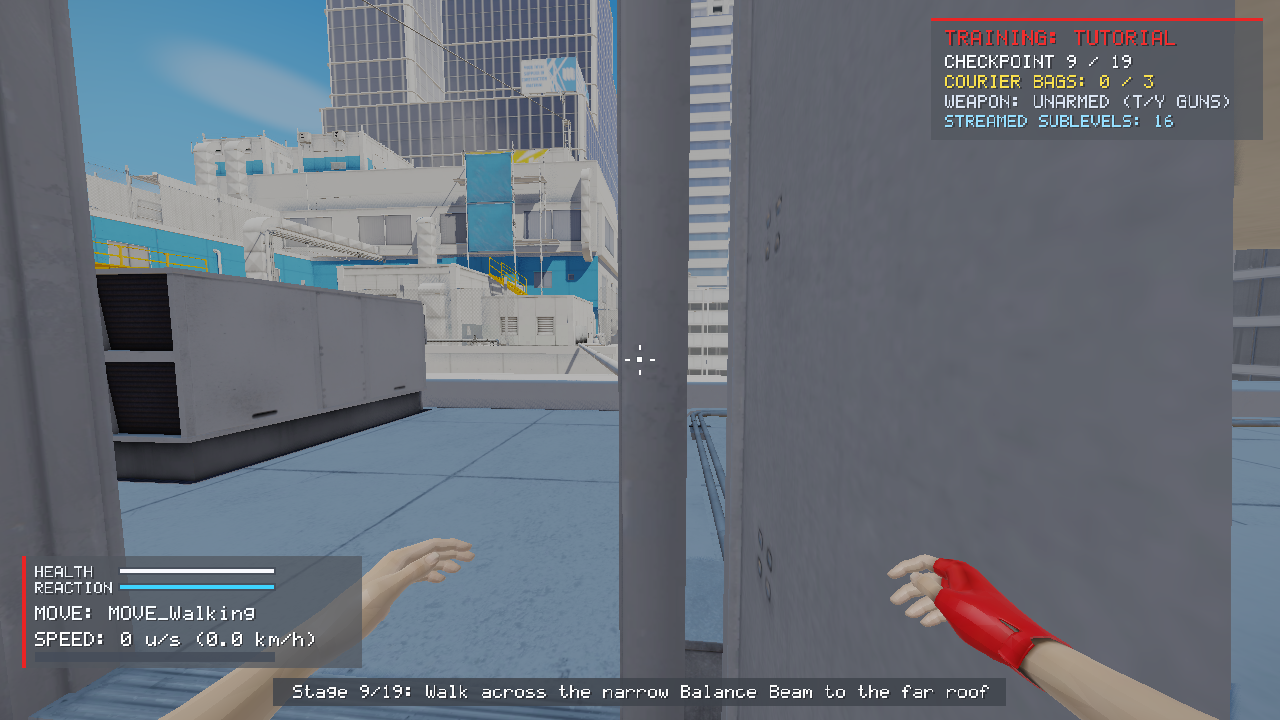
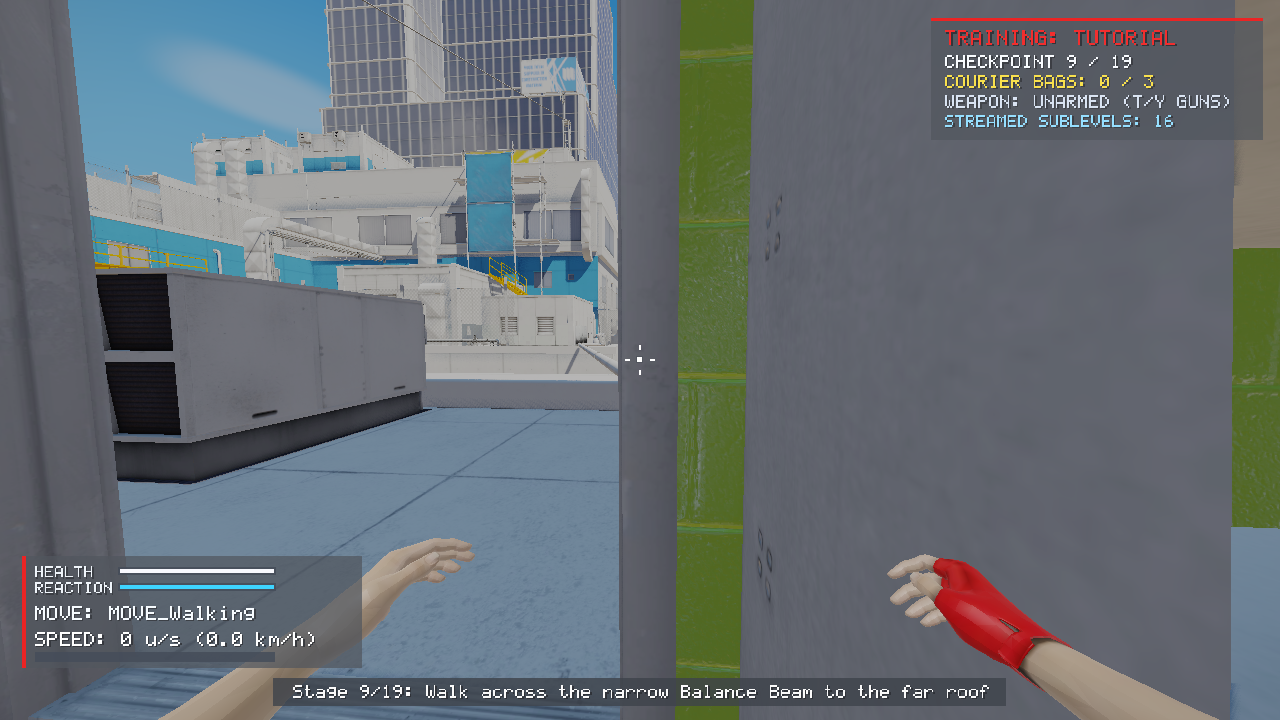
Extract and render UE3 UModel BSP interior walls, ceilings, and floors

Changed region(s): [[0.5312, 0.0, 0.5938, 0.9472], [0.9375, 0.3361, 1.0, 0.7333], [0.5, 0.9778, 0.5938, 1.0]]

diff --git a/src/assets/upk_loader.cpp b/src/assets/upk_loader.cpp
@@ -2428,6 +2428,204 @@ void UPKPackage::extract_bsp_collision(std::vector<Vec3>& out_triangles) const {
     }
 }
 
+void UPKPackage::extract_bsp_render_geometry(std::vector<std::pair<std::string, std::vector<Vertex>>>& out_bins,
+                                             AABB& inout_bounds) const {
+    constexpr uint32_t PF_Invisible = 0x00000001u;
+    constexpr uint32_t PF_TwoSided  = 0x00000100u;
+    constexpr uint32_t PF_Portal    = 0x04000000u;
+
+    std::unordered_map<std::string, size_t> bin_index;
+    for (size_t i = 0; i < out_bins.size(); ++i) {
+        bin_index.emplace(to_lower(out_bins[i].first), i);
+    }
+    auto get_bin = [&](const std::string& mat_path) -> std::vector<Vertex>& {
+        const std::string key = to_lower(mat_path);
+        auto it = bin_index.find(key);
+        if (it != bin_index.end()) return out_bins[it->second].second;
+        const size_t idx = out_bins.size();
+        out_bins.emplace_back(mat_path, std::vector<Vertex>{});
+        bin_index.emplace(key, idx);
+        return out_bins.back().second;
+    };
+
+    auto unpack_normal = [](const uint8_t* b) {
+        return Vec3(static_cast<float>(b[0]) / 127.5f - 1.0f,
+                    static_cast<float>(b[1]) / 127.5f - 1.0f,
+                    static_cast<float>(b[2]) / 127.5f - 1.0f);
+    };
+
+    for (size_t i = 0; i < exports_.size(); ++i) {
+        const auto& exp = exports_[i];
+        if (get_export_class(exp) != "Model") continue;
+        if (resolve_object_index(exp.outer_index).first != "PersistentLevel") continue;
+        UPropertyList props;
+        size_t off = parse_export_properties(*this, static_cast<int32_t>(i) + 1, props);
+        const size_t end = std::min(data_.size(), static_cast<size_t>(exp.serial_offset) + static_cast<size_t>(exp.serial_size));
+        if (off == 0 || off + 28 > end) continue;
+        off += 28;  // Bounds
+
+        auto rd = [&](size_t o) {
+            int32_t v = 0;
+            std::memcpy(&v, data_.data() + o, 4);
+            return v;
+        };
+        struct Bulk {
+            size_t data = 0;
+            int32_t elem = 0;
+            int32_t count = 0;
+        };
+        auto bulk = [&](Bulk& b) -> bool {
+            if (off + 8 > end) return false;
+            b.elem = rd(off);
+            b.count = rd(off + 4);
+            if (b.elem <= 0 || b.elem > 256 || b.count < 0 ||
+                off + 8 + static_cast<size_t>(b.elem) * static_cast<size_t>(b.count) > end) {
+                return false;
+            }
+            b.data = off + 8;
+            off = b.data + static_cast<size_t>(b.elem) * static_cast<size_t>(b.count);
+            return true;
+        };
+        Bulk vectors, points, nodes, verts;
+        if (!bulk(vectors) || !bulk(points) || !bulk(nodes)) continue;
+        if (points.elem != 12 || nodes.elem != 64 || nodes.count == 0) continue;
+        if (off + 8 > end) continue;
+        const int32_t surf_count = rd(off + 4);  // TTransArray: Owner, then the TArray
+        constexpr size_t kSurfSize = 56;
+        const size_t surfs = off + 8;
+        if (surf_count < 0 || surfs + kSurfSize * static_cast<size_t>(surf_count) > end) continue;
+        off = surfs + kSurfSize * static_cast<size_t>(surf_count);
+        if (!bulk(verts) || verts.elem < 4) continue;
+
+        // Locate the cooked FModelVertexBuffer at the end of UModel (36 bytes/vertex:
+        // Position(12), TangentX(4), TangentZ(4), TexCoord(8), ShadowTexCoord(8)).
+        const uint8_t* vb_data = nullptr;
+        int32_t vb_count = 0;
+        for (size_t scan = off; scan + 8 <= end; scan += 4) {
+            const int32_t esz = rd(scan);
+            const int32_t cnt = rd(scan + 4);
+            if (esz == 36 && cnt >= 0 && scan + 8 + 36ULL * static_cast<size_t>(cnt) == end) {
+                vb_data = data_.data() + scan + 8;
+                vb_count = cnt;
+                break;
+            }
+        }
+
+        for (int32_t n = 0; n < nodes.count; ++n) {
+            const uint8_t* nd = data_.data() + nodes.data + static_cast<size_t>(n) * 64;
+            int32_t vert_pool = 0, surf = 0, vert_idx = 0;
+            std::memcpy(&vert_pool, nd + 16, 4);
+            std::memcpy(&surf, nd + 20, 4);
+            std::memcpy(&vert_idx, nd + 24, 4);
+            const uint8_t num_verts = nd[54];
+            if (num_verts < 3) continue;
+            if (vert_pool < 0 || vert_pool + num_verts > verts.count) continue;
+            if (surf < 0 || surf >= surf_count) continue;
+
+            const size_t so = surfs + kSurfSize * static_cast<size_t>(surf);
+            const int32_t mat_ref = rd(so);
+            uint32_t poly_flags = 0;
+            std::memcpy(&poly_flags, data_.data() + so + 4, 4);
+            if (poly_flags & (PF_Invisible | PF_Portal)) continue;
+
+            std::string mat_path = (mat_ref != 0) ? object_canonical_path(*this, mat_ref) : std::string();
+            if (mat_path == "EngineMaterials.RemoveSurfaceMaterial") continue;
+            if (mat_path.empty()) mat_path = "EngineMaterials.DefaultMaterial";
+
+            const int32_t p_base = rd(so + 8);
+            const int32_t v_normal = rd(so + 12);
+            const int32_t v_tex_u = rd(so + 16);
+            const int32_t v_tex_v = rd(so + 20);
+
+            float px = 0.0f, py = 0.0f, pz = 1.0f;
+            std::memcpy(&px, nd + 0, 4);
+            std::memcpy(&py, nd + 4, 4);
+            std::memcpy(&pz, nd + 8, 4);
+            Vec3 surf_n(px, py, pz);
+            if (vectors.elem == 12 && v_normal >= 0 && v_normal < vectors.count) {
+                std::memcpy(&surf_n, data_.data() + vectors.data + static_cast<size_t>(v_normal) * 12, 12);
+            }
+            surf_n = (surf_n.length_sq() > 1e-12f) ? surf_n.normalized() : Vec3(0.0f, 0.0f, 1.0f);
+
+            Vec3 base_pt(0.0f, 0.0f, 0.0f), tex_u(1.0f, 0.0f, 0.0f), tex_v(0.0f, 1.0f, 0.0f);
+            if (p_base >= 0 && p_base < points.count) {
+                std::memcpy(&base_pt, data_.data() + points.data + static_cast<size_t>(p_base) * 12, 12);
+            }
+            if (vectors.elem == 12 && v_tex_u >= 0 && v_tex_u < vectors.count) {
+                std::memcpy(&tex_u, data_.data() + vectors.data + static_cast<size_t>(v_tex_u) * 12, 12);
+            }
+            if (vectors.elem == 12 && v_tex_v >= 0 && v_tex_v < vectors.count) {
+                std::memcpy(&tex_v, data_.data() + vectors.data + static_cast<size_t>(v_tex_v) * 12, 12);
+            }
+
+            Vertex poly_v[256];
+            int count = 0;
+            for (int k = 0; k < num_verts; ++k) {
+                Vertex v{};
+                v.color = 0xFFFFFFFFu;
+                if (vb_data && vert_idx >= 0 && vert_idx + num_verts <= vb_count) {
+                    const uint8_t* vptr = vb_data + static_cast<size_t>(vert_idx + k) * 36;
+                    std::memcpy(&v.position, vptr + 0, 12);
+                    const Vec3 tx = unpack_normal(vptr + 12);
+                    const Vec3 tz = unpack_normal(vptr + 16);
+                    v.normal = (tz.length_sq() > 0.25f) ? tz.normalized() : surf_n;
+                    v.tangent = (tx.length_sq() > 0.25f) ? tx.normalized() : Vec3(1.0f, 0.0f, 0.0f);
+                    v.tangent_sign = (vptr[19] >= 128) ? 1.0f : -1.0f;
+                    std::memcpy(&v.u, vptr + 20, 4);
+                    std::memcpy(&v.v, vptr + 24, 4);
+                    std::memcpy(&v.u2, vptr + 28, 4);
+                    std::memcpy(&v.v2, vptr + 32, 4);
+                } else {
+                    const int32_t pv = rd(verts.data + static_cast<size_t>(verts.elem) * static_cast<size_t>(vert_pool + k));
+                    if (pv < 0 || pv >= points.count) continue;
+                    std::memcpy(&v.position, data_.data() + points.data + static_cast<size_t>(pv) * 12, 12);
+                    v.normal = surf_n;
+                    v.tangent = (tex_u.length_sq() > 1e-12f) ? tex_u.normalized() : Vec3(1.0f, 0.0f, 0.0f);
+                    v.tangent_sign = 1.0f;
+                    const Vec3 dp = v.position - base_pt;
+                    v.u = dp.dot(tex_u) / 128.0f;
+                    v.v = dp.dot(tex_v) / 128.0f;
+                    if (verts.elem >= 16) {
+                        const uint8_t* fv = data_.data() + verts.data + static_cast<size_t>(verts.elem) * static_cast<size_t>(vert_pool + k);
+                        std::memcpy(&v.u2, fv + 8, 4);
+                        std::memcpy(&v.v2, fv + 12, 4);
+                    }
+                }
+                inout_bounds.expand(v.position);
+                poly_v[count++] = v;
+            }
+            if (count < 3) continue;
+
+            std::vector<Vertex>& dst = get_bin(mat_path);
+            for (int k = 1; k + 1 < count; ++k) {
+                const Vertex& a = poly_v[0];
+                const Vertex& b = poly_v[k];
+                const Vertex& c = poly_v[k + 1];
+                // Ensure counter-clockwise screen winding when viewed along +surf_n.
+                const Vec3 cr = (b.position - a.position).cross(c.position - a.position);
+                const bool flip = (cr.dot(surf_n) > 0.0f);
+                const Vertex& v1 = flip ? c : b;
+                const Vertex& v2 = flip ? b : c;
+                dst.push_back(a);
+                dst.push_back(v1);
+                dst.push_back(v2);
+                if (poly_flags & PF_TwoSided) {
+                    Vertex ba = a, bv1 = v2, bv2 = v1;
+                    ba.normal = ba.normal * -1.0f;
+                    bv1.normal = bv1.normal * -1.0f;
+                    bv2.normal = bv2.normal * -1.0f;
+                    ba.tangent_sign = -ba.tangent_sign;
+                    bv1.tangent_sign = -bv1.tangent_sign;
+                    bv2.tangent_sign = -bv2.tangent_sign;
+                    dst.push_back(ba);
+                    dst.push_back(bv1);
+                    dst.push_back(bv2);
+                }
+            }
+        }
+    }
+}
+
 // -----------------------------------------------------------------------------
 // Level geometry: real UStaticMesh render batches + UE3 collision
 // -----------------------------------------------------------------------------
@@ -2492,6 +2690,25 @@ public:
         }
     }
     [[nodiscard]] bool use_materials() const { return material_paths_ != nullptr; }
+
+    void emit_bsp(const std::vector<std::pair<std::string, std::vector<Vertex>>>& bsp_bins,
+                  std::map<int32_t, std::vector<Vertex>>& bins,
+                  std::vector<Vertex>& flat) {
+        for (const auto& [mat_path, verts] : bsp_bins) {
+            if (verts.empty()) continue;
+            if (use_materials()) {
+                const int32_t mat = material_id(mat_path);
+                auto& dst = bins[mat];
+                dst.insert(dst.end(), verts.begin(), verts.end());
+            } else {
+                const size_t base = flat.size();
+                flat.insert(flat.end(), verts.begin(), verts.end());
+                for (size_t i = base; i < flat.size(); ++i) {
+                    flat[i].color = 0xFFF2F0EEu;
+                }
+            }
+        }
+    }
 
     // Material mode: appends to `bins` (material id -> vertices). Legacy mode: appends palette
     // coloured vertices to `flat`. Returns the world AABB of the emitted vertices.
@@ -2633,7 +2850,9 @@ void build_level_geometry(std::vector<LevelActor>& actors,
                           std::vector<MeshBuffer>& out_meshes,
                           CollisionWorld& out_collision,
                           const std::unordered_map<std::string, StaticMeshAsset>& mesh_lib,
-                          std::vector<std::string>* out_material_paths) {
+                          std::vector<std::string>* out_material_paths,
+                          const std::vector<std::pair<std::string, std::vector<Vertex>>>* bsp_render_bins,
+                          const AABB* bsp_bounds) {
     out_meshes.clear();
 
     // Batched world buffers for single-draw-call-per-material rendering
@@ -2680,6 +2899,14 @@ void build_level_geometry(std::vector<LevelActor>& actors,
             a.world_bounds = box;
             overall.expand(box.min_pt);
             overall.expand(box.max_pt);
+        }
+    }
+
+    if (bsp_render_bins && !bsp_render_bins->empty()) {
+        emitter.emit_bsp(*bsp_render_bins, world_bins, world_batch.vertices);
+        if (bsp_bounds && valid_box(*bsp_bounds)) {
+            overall.expand(bsp_bounds->min_pt);
+            overall.expand(bsp_bounds->max_pt);
         }
     }
 
@@ -3492,20 +3719,26 @@ bool load_level_scene(const std::string& game_root, const std::string& map_rel_p
                   << out_scene.sky_lower_color.y << ", " << out_scene.sky_lower_color.z << ")" << std::endl;
     }
 
-    // Real UStaticMesh render batches + UE3 collision (populating each actor's transformed world_bounds),
+    // Real UStaticMesh + BSP UModel render batches + UE3 collision (populating each actor's transformed world_bounds),
     // then the moving elevator parts with their own buffers and collision.
     std::vector<std::string> material_paths;
     auto collision = std::make_shared<CollisionWorld>();
+    std::vector<std::pair<std::string, std::vector<Vertex>>> bsp_render_bins;
+    AABB bsp_bounds(Vec3(1e30f, 1e30f, 1e30f), Vec3(-1e30f, -1e30f, -1e30f));
     {
-        // Level BSP (rooms, interiors blocked out with brushes) collides as world geometry.
+        // Level BSP (rooms, interiors blocked out with brushes) collides and renders as world geometry.
         std::vector<Vec3> bsp;
-        for (const auto& pkg : loaded_packages) pkg->extract_bsp_collision(bsp);
+        for (const auto& pkg : loaded_packages) {
+            pkg->extract_bsp_collision(bsp);
+            pkg->extract_bsp_render_geometry(bsp_render_bins, bsp_bounds);
+        }
         collision->reserve(bsp.size() / 3 + 1024);
         for (size_t i = 0; i + 2 < bsp.size(); i += 3) {
             collision->add_triangle(bsp[i], bsp[i + 1], bsp[i + 2], -1, COLL_BlockAll);
         }
     }
-    build_level_geometry(out_scene.actors, out_scene.meshes, *collision, mesh_library, pm ? &material_paths : nullptr);
+    build_level_geometry(out_scene.actors, out_scene.meshes, *collision, mesh_library, pm ? &material_paths : nullptr,
+                         &bsp_render_bins, &bsp_bounds);
     collision->build();
     build_elevator_part_geometry(out_scene, mesh_library, pm ? &material_paths : nullptr);
 

diff --git a/src/assets/upk_loader.hpp b/src/assets/upk_loader.hpp
@@ -142,6 +142,10 @@ public:
     // Level BSP (the PersistentLevel UModel) collision polygons, fan-triangulated in world
     // space (3 vertices per triangle). Non-CSG nodes and PF_NotSolid surfaces are skipped.
     void extract_bsp_collision(std::vector<Vec3>& out_triangles) const;
+    // Level BSP render geometry (from PersistentLevel UModel Nodes + Surfs + FModelVertexBuffer),
+    // binned by canonical material path and oriented to counter-clockwise front-facing winding.
+    void extract_bsp_render_geometry(std::vector<std::pair<std::string, std::vector<Vertex>>>& out_bins,
+                                     AABB& inout_bounds) const;
     void extract_elevators(const std::unordered_map<std::string, StaticMeshAsset>& mesh_lib,
                            std::vector<ElevatorInstance>& out_elevators,
                            std::vector<InterpDoorInfo>* out_doors = nullptr) const;
@@ -186,7 +190,9 @@ void build_level_geometry(std::vector<LevelActor>& actors,
                           std::vector<MeshBuffer>& out_meshes,
                           CollisionWorld& out_collision,
                           const std::unordered_map<std::string, StaticMeshAsset>& mesh_lib,
-                          std::vector<std::string>* out_material_paths = nullptr);
+                          std::vector<std::string>* out_material_paths = nullptr,
+                          const std::vector<std::pair<std::string, std::vector<Vertex>>>* bsp_render_bins = nullptr,
+                          const AABB* bsp_bounds = nullptr);
 
 // Appends one actor's UE3 collision triangles (world space) to `out` with the per-triangle
 // channels implied by the actor flags and the mesh's UseSimple*Collision settings.
